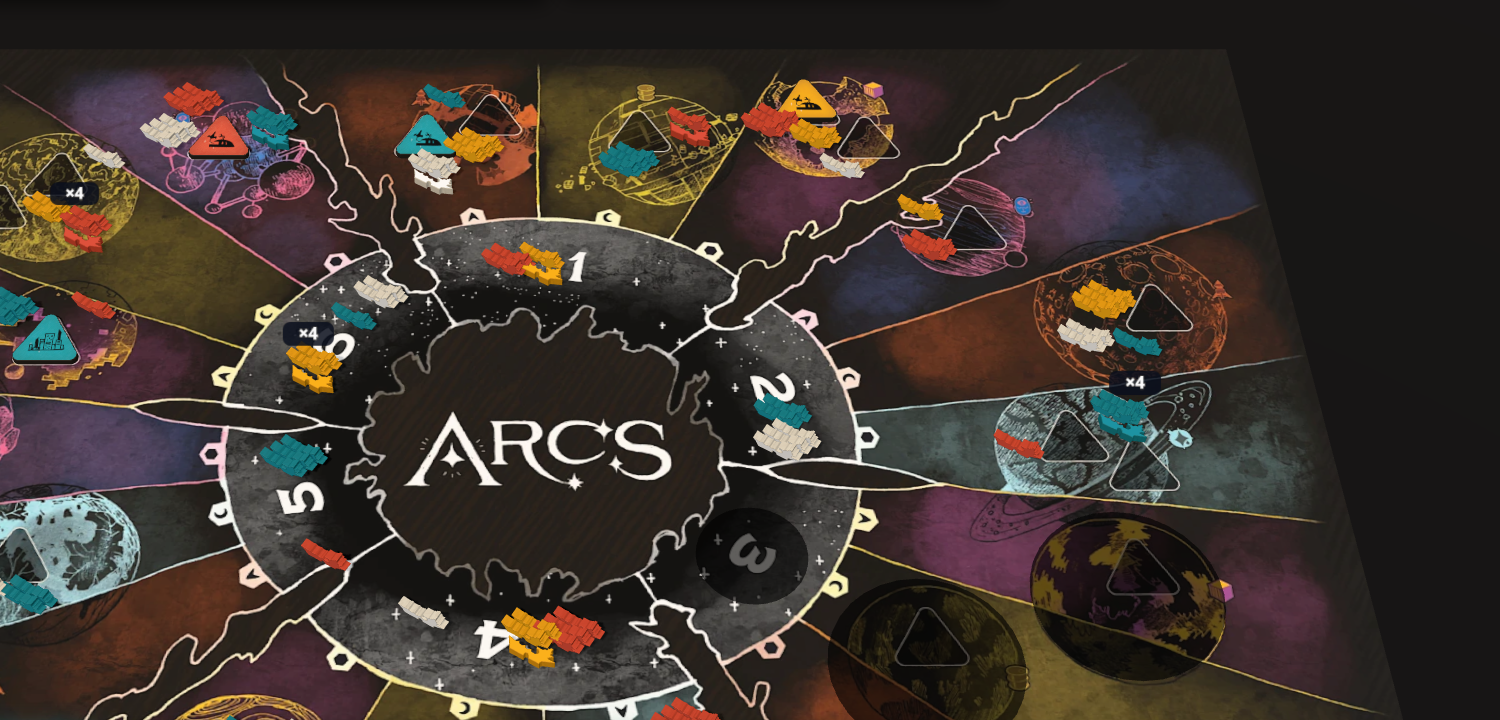
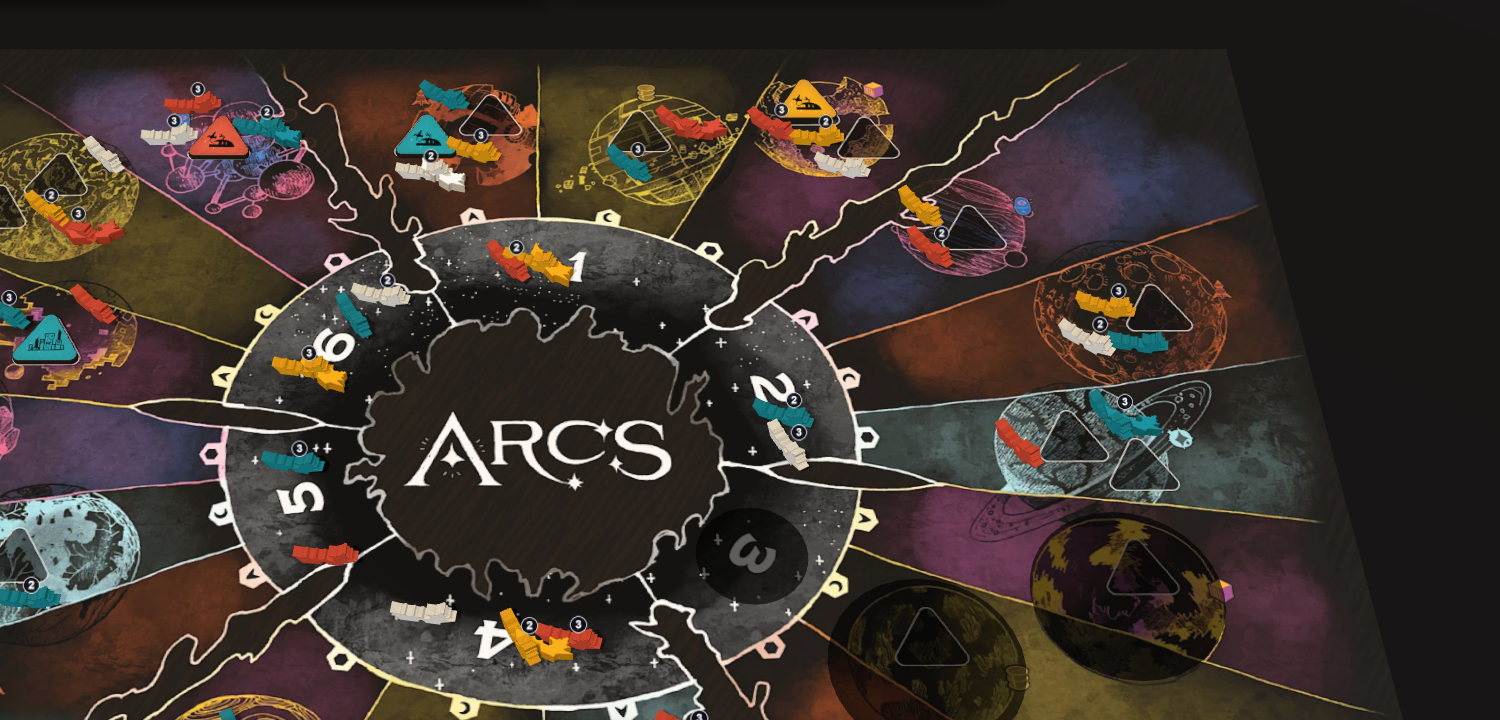
feat: fresh and damaged ship groups with counts, varied headings
In a ship zone each seat shows one standing model for its fresh ships and
one lying model for its damaged ones, side by side, each with a round
count badge when it stands for two or more. Every group is turned a
fixed, random-looking amount (hashed from system, seat and kind).

Story: table roadmap step 2 (map zones)

diff --git a/src/ui/table/board3d.ts b/src/ui/table/board3d.ts
@@ -15,7 +15,7 @@ import type { ContentIndex } from '../../game/engine';
 import { layout } from '../map';
 import { assetUrl } from './assets';
 import defaultCalibration from './board.default.json';
-import { BOARD_DEPTH, boardWidth, buildingSpots, isCalibration, MAX_SHOWN, PILE_SHOWN, pileSpots, shipSpot, slotSpots, stackCentres, stackSpots, systemSpots, TILT_FAR, tiltForZoom } from './board3d-layout';
+import { BOARD_DEPTH, boardWidth, buildingSpots, headingJitter, isCalibration, MAX_SHOWN, shipGroups, shipSpot, slotSpots, stackCentres, stackSpots, systemSpots, TILT_FAR, tiltForZoom } from './board3d-layout';
 import type { BoardCalibration, Spot } from './board3d-layout';
 import { loadKitPieces, piece } from './kitpieces';
 import { boardImageSvg } from './mapview';
@@ -60,7 +60,9 @@ const OWN_SCALE = 1.15;
 /** Scale of the kit's ships on the map (their pictures are larger than the board's scale). */
 const KIT_SHIP_SCALE = 1.15;
 /** Ships in the calibrated ship zones are drawn smaller, closer to the real pieces on the board picture. */
-const ZONE_SHIP_SCALE = 0.7;
+const ZONE_SHIP_SCALE = 0.85;
+/** Default heading of a ship model: three-quarters to the viewer. */
+const SHIP_HEADING = -0.55;
 const VALID = new THREE.Color('#5fd4e6');
 const CHOSEN = new THREE.Color('#ffcc66');
 const SURROUND = '#0b0a0c';
@@ -324,19 +326,35 @@ export class Board3D {
       const centres = stackCentres(s.ships.length, slots ? 0.7 : 0.75);
       s.ships.forEach((st, i) => {
         // On the owner's picture each seat has its own spot in the system's
-        // ship zone (clear of the slots, inside the planet), and its ships
-        // stand in a compact pile there; elsewhere the stacks ring the system point.
+        // ship zone (clear of the slots, inside the planet): one model for its
+        // fresh ships and one for its damaged ones, each with how many it
+        // stands for. Elsewhere the stacks ring the system point.
         const zone = shipSpot(this.calib, s.id, st.player);
         const c = zone ? { x: zone.x - p.x, z: zone.z - p.z } : centres[i];
-        for (const sp of zone ? pileSpots(st.fresh, st.damaged) : stackSpots(st.fresh, st.damaged, 0.36)) {
+        const at = (dx: number, dz: number) => ({ x: p.x + c.x + dx, z: p.z + c.z + dz });
+        if (zone) {
+          for (const g of shipGroups(st.fresh, st.damaged)) {
+            const o = piece('ship', st.player, { lying: g.lying });
+            const w = at(g.dx, g.dz);
+            o.position.set(w.x, 0, w.z);
+            // Three-quarters to the viewer, each group turned its own way.
+            o.rotation.y = SHIP_HEADING + headingJitter(`${s.id}:${st.player}:${g.lying ? 'd' : 'f'}`);
+            o.scale.setScalar((o.userData.kit ? KIT_SHIP_SCALE : OWN_SCALE) * ZONE_SHIP_SCALE);
+            this.pieces.add(o);
+            if (g.count > 1) this.pieces.add(countTag(g.count, w.x, w.z, 'small'));
+          }
+          return;
+        }
+        for (const sp of stackSpots(st.fresh, st.damaged, 0.36)) {
           const o = piece('ship', st.player, { lying: sp.lying });
-          o.position.set(p.x + c.x + sp.dx, 0, p.z + c.z + sp.dz);
+          const w = at(sp.dx, sp.dz);
+          o.position.set(w.x, 0, w.z);
           // Turned three-quarters to the viewer, so the profile of a standing ship shows.
-          o.rotation.y = -0.55;
-          o.scale.setScalar((o.userData.kit ? KIT_SHIP_SCALE : OWN_SCALE) * (zone ? ZONE_SHIP_SCALE : 1));
+          o.rotation.y = SHIP_HEADING;
+          o.scale.setScalar(o.userData.kit ? KIT_SHIP_SCALE : OWN_SCALE);
           this.pieces.add(o);
         }
-        if (st.fresh + st.damaged > (zone ? PILE_SHOWN : MAX_SHOWN)) this.pieces.add(countTag(st.fresh + st.damaged, p.x + c.x, p.z + c.z));
+        if (st.fresh + st.damaged > MAX_SHOWN) this.pieces.add(countTag(st.fresh + st.damaged, p.x + c.x, p.z + c.z));
       });
       const arc = buildingSpots(s.buildings.length);
       s.buildings.forEach((bd, i) => {
@@ -424,26 +442,41 @@ export class Board3D {
   }
 }
 
-/** A small "×n" label floating over a stack with more pieces than drawn. */
-function countTag(n: number, x: number, z: number): THREE.Sprite {
+/**
+ * A "×n" label floating over a stack with more pieces than drawn; `small` is
+ * the plain number beside one ship group in a ship zone.
+ */
+function countTag(n: number, x: number, z: number, size: 'large' | 'small' = 'large'): THREE.Sprite {
+  const small = size === 'small';
   const cv = document.createElement('canvas');
-  cv.width = 128;
+  cv.width = small ? 64 : 128;
   cv.height = 64;
   const g = cv.getContext('2d')!;
-  g.fillStyle = 'rgba(10,14,28,.85)';
+  g.fillStyle = 'rgba(10,14,28,.9)';
   g.beginPath();
-  g.roundRect(4, 4, 120, 56, 18);
+  if (small) g.arc(32, 32, 30, 0, Math.PI * 2);
+  else g.roundRect(4, 4, 120, 56, 18);
   g.fill();
+  if (small) {
+    g.strokeStyle = 'rgba(255,255,255,.85)';
+    g.lineWidth = 3;
+    g.stroke();
+  }
   g.fillStyle = '#fff';
   g.font = 'bold 40px sans-serif';
   g.textAlign = 'center';
   g.textBaseline = 'middle';
-  g.fillText(`×${n}`, 64, 34);
+  g.fillText(small ? String(n) : `×${n}`, cv.width / 2, 34);
   const tex = new THREE.CanvasTexture(cv);
   tex.colorSpace = THREE.SRGBColorSpace;
   const sprite = new THREE.Sprite(new THREE.SpriteMaterial({ map: tex, depthTest: false }));
-  sprite.scale.set(0.5, 0.25, 1);
-  sprite.position.set(x, 0.6, z);
+  if (small) {
+    sprite.scale.set(0.15, 0.15, 1);
+    sprite.position.set(x + 0.08, 0.3, z);
+  } else {
+    sprite.scale.set(0.5, 0.25, 1);
+    sprite.position.set(x, 0.6, z);
+  }
   return sprite;
 }
 

diff --git a/src/ui/table/board3d-layout.ts b/src/ui/table/board3d-layout.ts
@@ -101,8 +101,6 @@ export interface ShipSpot {
 
 /** Pieces drawn per stack; more are summed up by a count tag. */
 export const MAX_SHOWN = 6;
-/** Ships drawn in one seat's pile on a calibrated ship zone; more get a count tag. */
-export const PILE_SHOWN = 3;
 
 /**
  * Ships of one seat in one system: fresh ones standing in a row, damaged ones
@@ -116,20 +114,42 @@ export function stackSpots(fresh: number, damaged: number, gap = 0.22): ShipSpot
   return [...row(f, d ? -0.14 : 0, false), ...row(d, f ? 0.2 : 0, true)];
 }
 
+/** One group of a seat's ships in a ship zone: one model stands for `count` ships. */
+export interface ShipGroup {
+  dx: number;
+  dz: number;
+  lying: boolean;
+  count: number;
+}
+
 /**
- * Ships of one seat on its own spot of a system's ship zone: a compact pile
- * that takes little more room than one ship. Fresh ones stand in echelon,
- * each a little behind and to the side of the one before; damaged ones lie in
- * front of them, also in echelon. At most PILE_SHOWN in all: a damaged ship
- * keeps one place when there is one, the rest go to fresh ones; a count tag
- * gives the total.
+ * Ships of one seat on its own spot of a system's ship zone, in two groups:
+ * fresh ships (one standing model) and damaged ships (one lying model), side
+ * by side; each group carries how many ships it stands for. A seat with only
+ * one kind has its group on the spot itself.
  */
-export function pileSpots(fresh: number, damaged: number): ShipSpot[] {
-  const d = Math.min(damaged, fresh > 0 ? 1 : PILE_SHOWN, PILE_SHOWN);
-  const f = Math.min(fresh, PILE_SHOWN - d);
-  const standing = Array.from({ length: f }, (_, i) => ({ dx: i * 0.09 - (f - 1) * 0.045, dz: -i * 0.07 - (d ? 0.06 : 0), lying: false }));
-  const lying = Array.from({ length: d }, (_, i) => ({ dx: i * 0.09 - (d - 1) * 0.045, dz: (f ? 0.11 : 0) + i * 0.04, lying: true }));
-  return [...standing, ...lying];
+export function shipGroups(fresh: number, damaged: number): ShipGroup[] {
+  const both = fresh > 0 && damaged > 0;
+  const out: ShipGroup[] = [];
+  if (fresh > 0) out.push({ dx: both ? -GROUP_GAP / 2 : 0, dz: 0, lying: false, count: fresh });
+  if (damaged > 0) out.push({ dx: both ? GROUP_GAP / 2 : 0, dz: both ? 0.03 : 0, lying: true, count: damaged });
+  return out;
+}
+
+/** World distance between a seat's fresh and damaged groups. */
+export const GROUP_GAP = 0.2;
+/** How far (radians) a ship model may turn either side of the default heading. */
+export const HEADING_SPREAD = 0.6;
+
+/**
+ * A fixed, random-looking turn for the model keyed by `key` (system, seat and
+ * kind): within ±HEADING_SPREAD, the same every redraw, so ships do not all
+ * point the same way and do not spin when the map changes.
+ */
+export function headingJitter(key: string): number {
+  let h = 2166136261;
+  for (let i = 0; i < key.length; i++) h = Math.imul(h ^ key.charCodeAt(i), 16777619);
+  return (((h >>> 0) % 10000) / 10000 * 2 - 1) * HEADING_SPREAD;
 }
 
 /** Centres of up to 4 seat stacks around a system point (radius `r`). */

diff --git a/tests/unit/ui/board3d-layout.test.ts b/tests/unit/ui/board3d-layout.test.ts
@@ -2,7 +2,7 @@
 // mapping, schematic fallback, and how ship stacks are laid out.
 import { describe, expect, it } from 'vitest';
 import {
-  BOARD_DEPTH, boardWidth, buildingSpots, isCalibration, MAX_SHOWN, pictureToWorld, PILE_SHOWN, pileSpots, shipSpot, schematicToWorld, slotSpots, stackCentres, stackSpots, systemSpots, TILT_FAR, TILT_NEAR, tiltForZoom, worldToPicture,
+  BOARD_DEPTH, boardWidth, buildingSpots, isCalibration, MAX_SHOWN, pictureToWorld, GROUP_GAP, headingJitter, HEADING_SPREAD, shipGroups, shipSpot, schematicToWorld, slotSpots, stackCentres, stackSpots, systemSpots, TILT_FAR, TILT_NEAR, tiltForZoom, worldToPicture,
 } from '../../../src/ui/table/board3d-layout';
 
 const PICTURE = { width: 4000, height: 2000 };
@@ -110,22 +110,23 @@ describe('ship zones', () => {
     expect(shipSpot(calib, 'missing', 0)).toBeNull();
   });
 
-  it('keeps a pile within a ship-and-a-half of its point, fresh standing behind damaged', () => {
-    const pile = pileSpots(2, 1);
-    expect(pile).toHaveLength(3);
-    for (const s of pile) expect(Math.hypot(s.dx, s.dz)).toBeLessThan(0.3);
-    const standing = pile.filter((s) => !s.lying);
-    const lying = pile.filter((s) => s.lying);
-    expect(standing).toHaveLength(2);
-    expect(Math.max(...standing.map((s) => s.dz))).toBeLessThan(Math.min(...lying.map((s) => s.dz)));
+  it('puts fresh and damaged ships in two groups side by side, each with its count', () => {
+    const groups = shipGroups(3, 2);
+    expect(groups.map((g) => [g.lying, g.count])).toEqual([[false, 3], [true, 2]]);
+    expect(groups[1].dx - groups[0].dx).toBeCloseTo(GROUP_GAP);
   });
 
-  it('draws at most PILE_SHOWN ships, keeping one place for a damaged ship', () => {
-    const pile = pileSpots(5, 3);
-    expect(pile).toHaveLength(PILE_SHOWN);
-    expect(pile.filter((s) => s.lying)).toHaveLength(1);
-    expect(pileSpots(5, 0).every((s) => !s.lying)).toBe(true);
-    expect(pileSpots(0, 5).every((s) => s.lying)).toBe(true);
-    expect(pileSpots(0, 5)).toHaveLength(PILE_SHOWN);
+  it('puts a single kind of ship on the spot itself and leaves out empty groups', () => {
+    expect(shipGroups(4, 0)).toEqual([{ dx: 0, dz: 0, lying: false, count: 4 }]);
+    expect(shipGroups(0, 1)).toEqual([{ dx: 0, dz: 0, lying: true, count: 1 }]);
+    expect(shipGroups(0, 0)).toEqual([]);
+  });
+
+  it('turns each ship group a fixed amount within the spread', () => {
+    const keys = ['a:0:f', 'a:0:d', 'a:1:f', 'b:2:f', 'c:3:d'];
+    const turns = keys.map(headingJitter);
+    for (const t of turns) expect(Math.abs(t)).toBeLessThanOrEqual(HEADING_SPREAD);
+    expect(keys.map(headingJitter)).toEqual(turns);
+    expect(new Set(turns).size).toBeGreaterThan(3);
   });
 });
